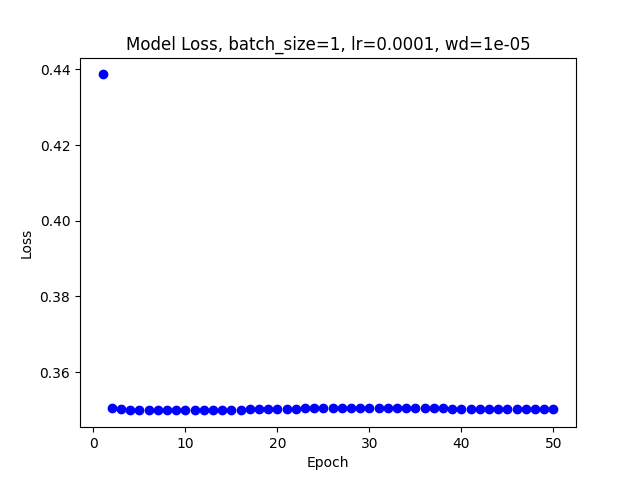
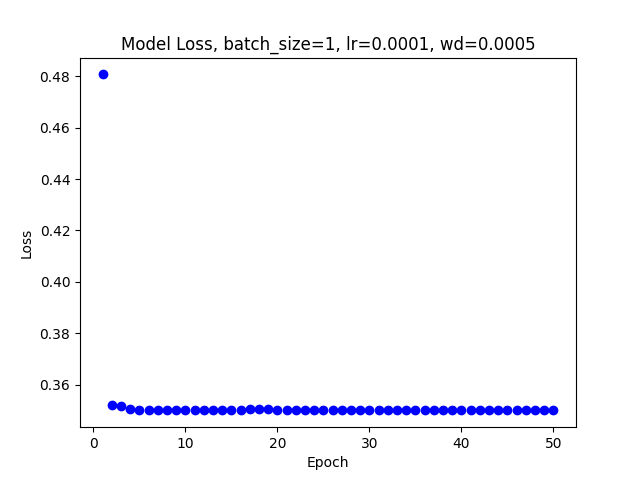
---

diff --git a/OutlierDetection/VAE.py b/OutlierDetection/VAE.py
@@ -201,7 +201,7 @@ class AE2(nn.Module):
 
         # Encoder
         self.encoder = nn.Sequential(
-            nn.Linear(input_dim, hidden_dim_1),
+            nn.Linear(input_dim, hidden_dim_1), #3D?
             nn.ReLU(), 
             nn.Linear(hidden_dim_1, hidden_dim_2),
             nn.ReLU(),

diff --git a/OutlierDetection/our_training_test2.py b/OutlierDetection/our_training_test2.py
@@ -11,7 +11,7 @@ parameters_dict = {
     'epochs': 50,
     'learning_rate': 1e-4,
     'batch_size': 1, #Noget galt når batch size ændres til mere end 1
-    'weight_decay': 1e-5,
+    'weight_decay': 5e-4,
 }
 
 ## Unpack parameters
